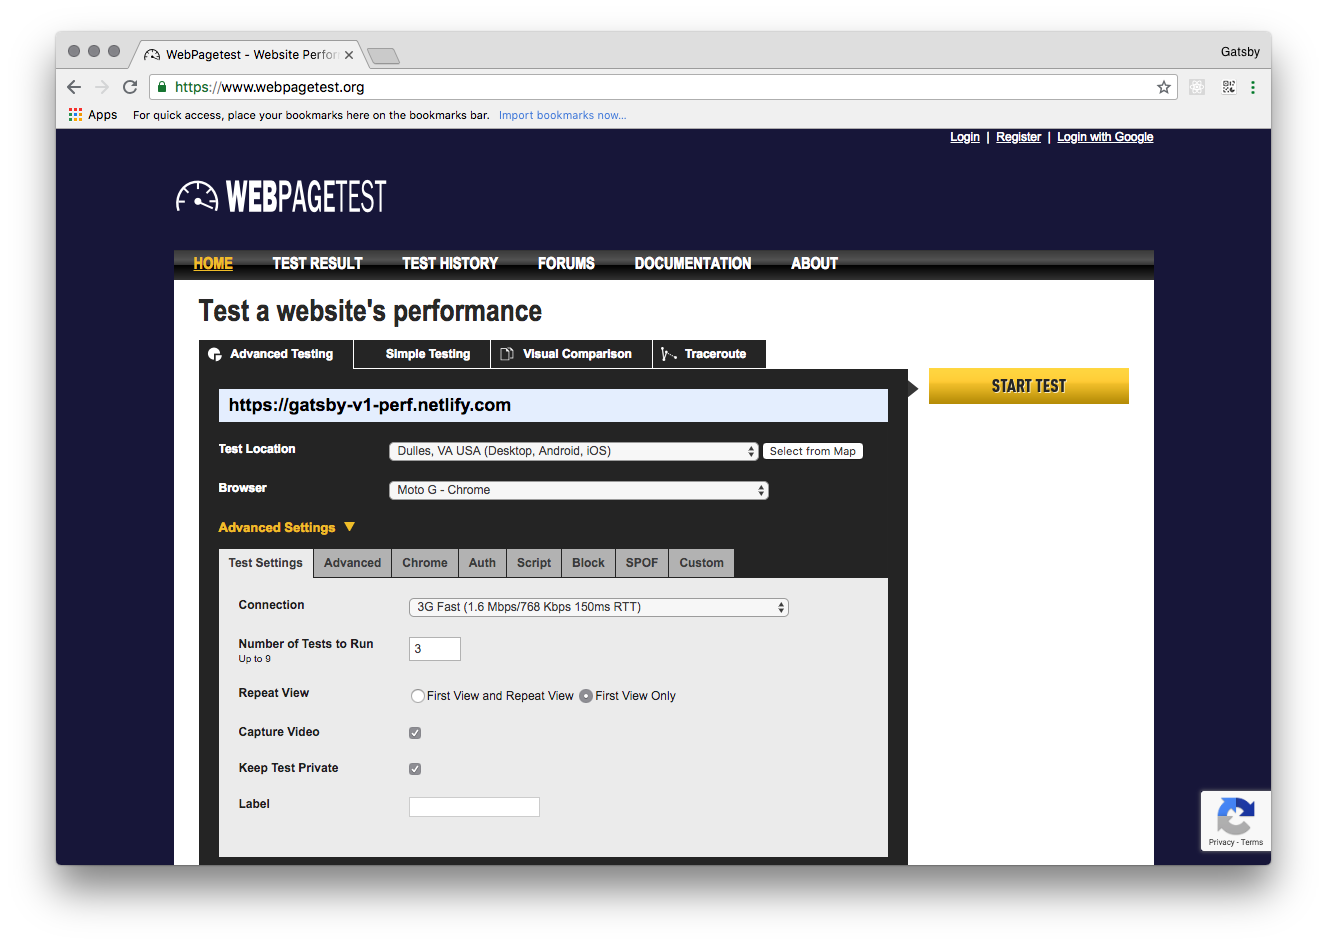
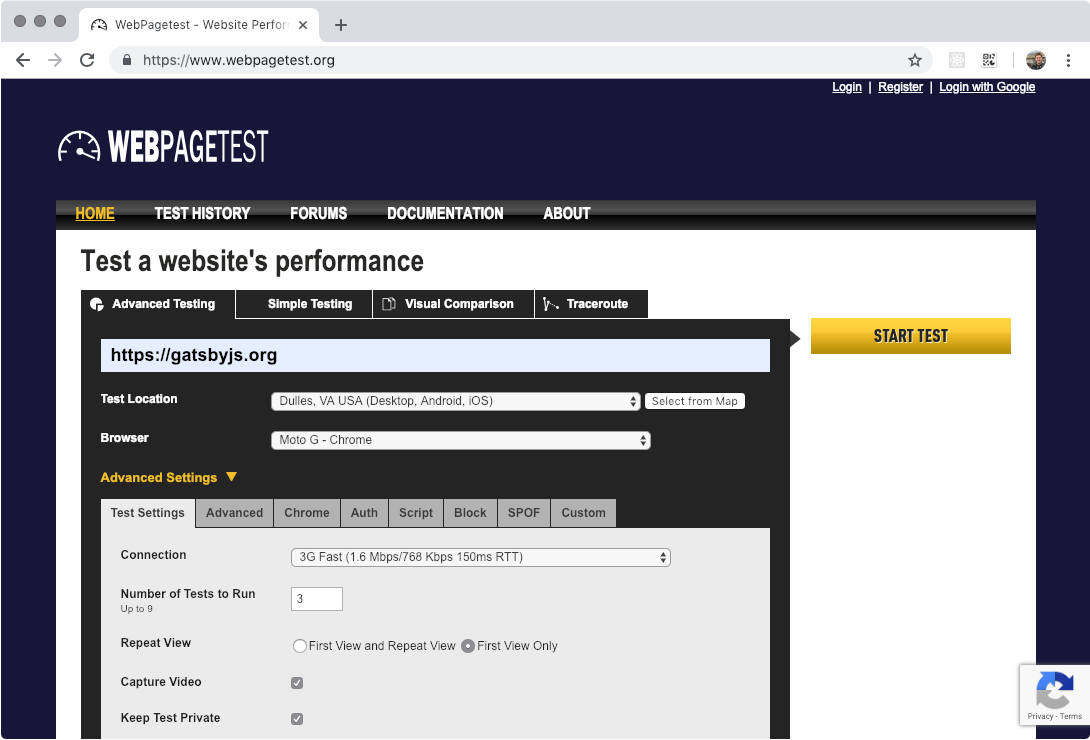
docs; add updated screenshots and links to webpagetest

diff --git a/docs/blog/2019-10-03-gatsby-perf/index.md b/docs/blog/2019-10-03-gatsby-perf/index.md
@@ -46,7 +46,7 @@ Maximizing this trace coupled with a concept known as TTI, or Time to Interactiv
 
 Running a performance audit on a Gatsby v1 site gives us these results in Lighthouse:
 
-![Gatsby v1 Lighthouse](./images/v1-perf.png)
+![Gatsby v1 Lighthouse](./images/lighthouse-v1.png)
 
 💯 Pretty speedy! We had our work cut out for us in improving upon this standard, but we did 💪
 
@@ -62,7 +62,7 @@ WebPagetest allows you to collect performance measurements in running on a _real
 
 Running a test in WebPagetest will pull up the specified site on the browser/network specified, and then collect performance measurements that can be reviewed and analyzed. These tests can serve as a baseline that can be compared against after changes are made, e.g. like a change in comparing the Gatsby v1 site to the Gatsby v2 site 🤓 Additionally, it's helpful to run these tests fairly often after meaningful changes and features are added to your web site, to ensure that you're guarding against performance regressions! For your consideration, check out Gatsby v1's metrics in WebPagetest.
 
-![WebPagetest v1](./images/v1-webpagetest.png)
+[![WebPagetest v1](./images/webpagetest-v1.png)][webpagetestv1-results]
 
 Armed with the powerful combo of Lighthouse, WebPagetest, and a knowledge of some useful performance terms like TTI, we can now shift into a discussion of the changes in Gatsby v2 that _improve_ performance over Gatsby v1 in meaningful, real-world ways. We'll come back to both of these tools as it relates to the Gatsby v2 site to actually _prove_ that we've improved performance over our Gatsby v1 baseline!
 
@@ -99,7 +99,7 @@ Let's take another look at performance in Gatsby v2 by revisiting our trusty fri
 
 ### Lighthouse
 
-![Gatsby v2 lighthouse](./images/v2-perf.png)
+![Gatsby v2 lighthouse](./images/lighthouse-v2.png)
 
 ![Comparison](./images/lighthouse-chart.png)
 
@@ -107,14 +107,14 @@ _Oncemore: lower is better 😉_
 
 ### WebPagetest
 
-![Gatsby v2 WebPagetest](./images/v2-webpagetest.png)
+[![Gatsby v2 WebPagetest](./images/webpagetest-v2.png)][webpagetestv2-results]
 
 | Version | Speed Index | Time to Interactive |
 | :-----: | :---------: | :-----------------: |
-|   v1    |   `1728`    |      `2.635s`       |
-|   v2    |   `1712`    |       `2.486`       |
+|   v1    |  `1.787s`   |      `2.532s`       |
+|   v2    |  `1.657s`   |      `2.457s`       |
 
-We've shaved off ~200ms from Time to Interactive, while also improving the Speed Index score 💪
+We've shaved off ~75ms from Time to Interactive, while also improving the Speed Index score 💪
 
 ## Wrap Up
 
@@ -132,3 +132,5 @@ Gatsby v2 is an iterative approach to improving the solid foundational base that
 [gatsby-plugin-typescript]: /packages/gatsby-plugin-typescript
 [migration-guide]: /docs/migrating-from-v1-to-v2/
 [webpagetest]: https://webpagetest.org
+[webpagetestv1-results]: https://www.webpagetest.org/result/181003_VD_1f8cbe4e27749d9725031de0be11c677/
+[webpagetestv2-results]: https://www.webpagetest.org/result/181003_X2_97d4ff779e4dafae2734af0e7dd7d70f/
